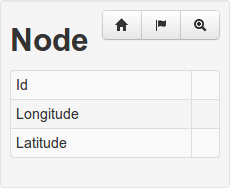
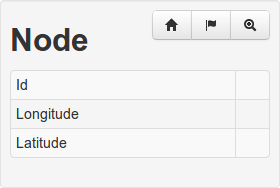
Erste Version des Benutzer-Handbuches.

diff --git a/doc/src/AntScout.tex b/doc/src/AntScout.tex
@@ -1,10 +1,14 @@
-\documentclass[a4paper,10pt]{scrreprt}
+\documentclass[
+  a4paper,
+  10pt
+]{scrreprt}
 
 \usepackage[ngerman]{babel}
 \usepackage{graphicx}
 \usepackage[utf8]{inputenc}
 \usepackage{listings}
 \usepackage{scrhack}
+\usepackage[shadow]{todonotes}
 \usepackage{hyperref}
 \usepackage[
   acronym,
@@ -24,6 +28,8 @@
   numberstyle = \tiny,
   showstringspaces = false
 }
+
+\bibliographystyle{alphadin}
 
 \makeglossaries
 
@@ -50,7 +56,7 @@ Konsolen-Kommandos, URLs oder Quellcode-Ausschnitte im Fließtext werden in eine
 \label{chap:allgemeine-problemstellung}
 
 Im Rahmen des Master-Projektes und der -Thesis soll eine Anwendung erstellt werden, in der der Ameisen-Algorithmus \textit{AntNet} auf realen Strassen-Karten für das dynamische Routing implementiert wird.
-Die Daten werden von \textit{OpenStreetMap} abgerufen und in einen Graphen umgewandelt, auf dem \textit{AntNet} operieren kann.
+Die Daten werden von \gls{osm} abgerufen und in einen Graphen umgewandelt, auf dem \textit{AntNet} operieren kann.
 Die Erstellung der Anwendung ist in zwei Schritte unterteilt:
 
 \begin{enumerate}
@@ -60,11 +66,13 @@ Die Erstellung der Anwendung ist in zwei Schritte unterteilt:
 
 Der erste Schritt ist das Ziel des Master-Projektes und der zweite das Ziel der Master-Thesis.
 
-\chapter{Benutzerhandbuch}
-\label{chap:benutzerhandbuch}
+\chapter{Benutzer-Handbuch}
+\label{chap:benutzer-handbuch}
 
-\section{Ablaufbedingungen}
-\label{sec:ablaufbedingungen}
+Im Benutzer-Handbuch wird die bereits fertige Anwendung beschrieben.
+
+% \section{Ablaufbedingungen}
+% \label{sec:ablaufbedingungen}
 
 \section{Installation}
 \label{sec:installation}
@@ -73,7 +81,7 @@ Der erste Schritt ist das Ziel des Master-Projektes und der zweite das Ziel der 
 Das Archiv muss lediglich auf die lokale Festplatte extrahiert werden.
 Dabei wird der Ordner ``AntScout'' erstellt, der alles beinhaltet, was für den Start der Anwendung nötig ist.
 
-\section{Programmstart}
+\section{Programm-Start}
 \label{sec:programmstart}
 
 \subsection{Voraussetzungen}
@@ -85,8 +93,8 @@ Dabei wird der Ordner ``AntScout'' erstellt, der alles beinhaltet, was für den 
   \item Der lokale Port \texttt{8080} darf nicht durch eine bereits laufende Anwendung blockiert sein.
 \end{itemize}
 
-\subsection{Start}
-\label{sec:programmstart-start}
+\subsection{Programm-Start}
+\label{sec:programm-start}
 
 \begin{enumerate}
   \item Konsole (auch Eingabeaufforderung oder Kommandozeile genannt) öffnen
@@ -100,15 +108,15 @@ Dabei wird der Ordner ``AntScout'' erstellt, der alles beinhaltet, was für den 
 \label{sec:programmstart-hinweise}
 
 \begin{itemize}
-  \item Nach dem Start von \texttt{sbt} werden alle benötigten Bibliotheken heruntergeladen.
+  \item Nach dem Start von \gls{sbt} werden alle benötigten Bibliotheken heruntergeladen.
     Je nach Internet-Verbindung kann dieser Vorgang mehrere Minuten dauern.
   \item Nach der Eingabe von \texttt{container:start} werden die benötigten Karten heruntergeladen und vorverarbeitet.
     Dieser Vorgang kann auch je nach Internet-Verbindung und Computer-Leistung mehrere Minuten dauern.
   \item Es sollte nach Möglichkeit ein möglichst moderner Browser, der HTML5 unterstützt, verwendet werden.
 \end{itemize}
 
-\section{Programmende}
-\label{sec:programmende}
+\section{Programm-Ende}
+\label{sec:programm-ende}
 
 \begin{enumerate}
   \item \texttt{container:stop}
@@ -135,6 +143,12 @@ Ein Screenshot dieser Seite ist in der Abbildung \ref{fig:start-seite} zu sehen.
 
 Die Seite ist in drei Bereiche unterteilt:
 
+\begin{itemize}
+  \item Menü
+  \item Karte
+  \item Informationen
+\end{itemize}
+
 \subsubsection{Menü}
 \label{sec:menue}
 
@@ -154,34 +168,40 @@ Dieser wird dann optisch hervorgehoben.
 
 Der Informationen-Bereich auf der rechten Seite ist in drei weitere Bereiche unterteilt:
 
-\paragraph{Pfad}
-\label{sec:pfad}
+\begin{itemize}
+  \item Pfad-Informationen
+  \item Knoten-Informationen
+  \item Weg-Informationen
+\end{itemize}
+
+\paragraph{Pfad-Informationen}
+\label{sec:pfad-informationen}
 
 Wenn ein Pfad gefunden wurde, werden hier die Länge und die Passier-Zeit angezeigt (siehe Abbildung \ref{fig:pfad-informationen}).
 Mit dem Button rechts oben können weitere Informationen eingeblendet werden.
 
 \begin{figure}[htbp]
   \centering
-  \includegraphics[width=0.3\textwidth]{Bilder/Pfad-Informationen.png}
+  \includegraphics[width=0.4\textwidth]{Bilder/Pfad-Informationen.png}
   \caption{Pfad-Informationen}
   \label{fig:pfad-informationen}
 \end{figure}
 
-\paragraph{Knoten}
-\label{sec:knoten}
+\paragraph{Knoten-Informationen}
+\label{sec:knoten-informationen}
 
 Nach der Markierung eines Knotens werden in diesem Bereich die Knoten-Daten eingetragen.
 Es handelt sich um die Id und die geographischen Daten, die direkt aus \gls{osm} übernommen werden (siehe Abbildung \ref{fig:knoten-informationen}).
 
 \begin{figure}[htbp]
   \centering
-  \includegraphics[width=0.3\textwidth]{Bilder/Knoten-Informationen.png}
+  \includegraphics[width=0.4\textwidth]{Bilder/Knoten-Informationen.png}
   \caption{Knoten-Informationen}
   \label{fig:knoten-informationen}
 \end{figure}
 
 Die drei Buttons rechts oben im Knoten-Informationen-Bereich (siehe Abbildung \ref{fig:knoten-buttons}) führen verschiedene Aktionen aus.
-Mit dem linken kann die aktuell selektierte Kreuzung als Start und mit dem mittleren als Ziel gesetzt werden.
+Mit dem linken kann der aktuell selektierte Knoten als Start und mit dem mittleren als Ziel gesetzt werden.
 Ein als Start oder Ziel gesetzter Knoten wird mit einem entsprechenden Marker versehen (siehe Abbildungen \ref{fig:start-knoten} und \ref{fig:ziel-knoten}).
 Mit dem rechten Button können weitere Informationen über die aktuell selektierte Knoten-Konstellation eingeblendet werden.
 
@@ -206,14 +226,115 @@ Mit dem rechten Button können weitere Informationen über die aktuell selektier
   \label{fig:ziel-knoten}
 \end{figure}
 
-\paragraph{Weg}
-\label{sec:weg}
+\paragraph{Weg-Informationen}
+\label{sec:weg-informationen}
 
 Hier werden die Daten eines selektierten Weges angezeigt.
-Neben einer Weg-Id werden hier die Länge, die maximale Geschwindigkeit und die Knoten angezeigt, aus denen der Weg besteht.
+Neben einer Weg-Id werden hier die Länge, die aktuell maximale Geschwindigkeit des Weges, die Passier-Zeit und die Knoten angezeigt, aus denen der Weg besteht (siehe Abbildung \ref{fig:weg-informationen}).
+Die Knoten können durch einen Klick auf ``Nodes'' eingeblendet werden.
+
+Unter der maximalen Geschwindigkeit sind drei Buttons zu sehen (siehe Abbildung \ref{fig:weg-editier-buttons}).
+Mit diesen Buttons kann die maximale Geschwindigkeit editiert werden.
+Der linke Button schaltet in den Editier-Modus.
+Im Editier-Modus ist die maximale Geschwindigkeit editierbar und die beiden rechten Buttons sind aktiv.
+Anschließend kann die neue Geschwindigkeit eingegeben werden.
+Mit dem mittleren Button kann diese gespeichert werden.
+Mit dem rechten Button wird der Editier-Modus verlassen, ohne die Änderung zu übernehmen.
+
+\begin{figure}[htbp]
+  \centering
+  \includegraphics[width=0.3\textwidth]{Bilder/Weg-Informationen.png}
+  \caption{Weg-Informationen}
+  \label{fig:weg-informationen}
+\end{figure}
+
+\begin{figure}[htbp]
+  \centering
+  \includegraphics[width=0.15\textwidth]{Bilder/Weg-Editier-Buttons.png}
+  \caption{Weg-Editier-Buttons}
+  \label{fig:weg-editier-buttons}
+\end{figure}
 
 \subsubsection{Statistiken}
 \label{sec:statistiken}
+
+In der Statistiken-Ansicht kann der aktuelle Zustand des Systems abgelesen werden.
+Diese ist in drei Bereiche unterteilt (Abbildung \ref{fig:statistiken}):
+
+\begin{itemize}
+  \item Ameisen-Statistiken (Abbildung \ref{fig:ameisen-statistiken})
+  \item Knoten-Statistiken (Abbildung \ref{fig:knoten-statistiken})
+  \item Zeit-Punkt der letzten Aktualisierung (Abbildung \ref{fig:letztes-update})
+\end{itemize}
+
+\begin{figure}[htbp]
+  \centering
+  \includegraphics[width=\textwidth]{Bilder/Statistiken.png}
+  \caption{Statistiken}
+  \label{fig:statistiken}
+\end{figure}
+
+\subsubsection{Ameisen-Statistiken}
+\label{sec:ameisen-statistiken}
+
+In diesem Bereich ist oben eine Tabelle zu sehen.
+In dieser ist jeweils die Anzahl der erzeugten, der das Ziel erreichten, der in einer Sack-Gasse angekommenen und der das maximale Alter überschrittenen Ameisen aufgeführt.
+Es wird sowohl die Anzahl pro Sekunde als auch die Gesamt-Anzahl angezeigt.
+Unter der Tabelle ist das durchschnittliche Ameisen-Alter, die Leerlauf-Zeit der Ameisen und die Zeit, die zum Auswählen des nächsten Knotens benötigt wurde, angezeigt.
+
+\begin{figure}[htbp]
+  \centering
+  \includegraphics[width=0.7\textwidth]{Bilder/Ameisen-Statistiken.png}
+  \caption{Ameisen-Statistiken}
+  \label{fig:ameisen-statistiken}
+\end{figure}
+
+\subsubsection{Knoten-Statistiken}
+\label{sec:Knoten-statistiken}
+
+Hier sind folgende Angaben zu finden:
+
+\begin{itemize}
+  \item Durchschnittliche Dauer, die zum Erzeugen von Ameisen benötigt wird.
+  \item Durchschnittliche Anzahl der Ameisen, die ein Knoten pro Sekunde verarbeitet.
+  \item Durchschnittliche Dauer, die für die Verarbeitung einer Ameise nötig ist.
+  \item Durchschnittliche Dauer, die für die Aktualisierung der Knoten-Daten-Strukturen gebraucht wird.
+\end{itemize}
+
+\begin{figure}[htbp]
+  \centering
+  \includegraphics[width=0.7\textwidth]{Bilder/Knoten-Statistiken.png}
+  \caption{Knoten-Statistiken}
+  \label{fig:knoten-statistiken}
+\end{figure}
+
+\begin{figure}[htbp]
+  \centering
+  \includegraphics[width=\textwidth]{Bilder/Letztes-Update.png}
+  \caption{Letztes Update}
+  \label{fig:letztes-update}
+\end{figure}
+
+\subsection{Routing}
+\label{sec:routing}
+
+Wenn sowohl Start als auch Ziel wie in Abschnitt \ref{sec:knoten-informationen} beschrieben gesetzt wurden, sucht \textit{AntScout} eine Route vom Start zum Ziel und zeigt diese an (Abbildung \ref{fig:route}).
+Jetzt kann einer der Wege, der auf der Route liegt selektiert und dessen maximale Geschwindigkeit wie in Abschnitt \ref{sec:weg-informationen} beschrieben verändert werden.
+Eine starke Verringerung der Geschwindigkeit veranlasst das System nach einer schnelleren Route zu suchen und diese anzuzeigen (Abbildung \ref{fig:alternative-route}).
+
+\begin{figure}[htbp]
+  \centering
+  \includegraphics[width=\textwidth]{Bilder/Route.png}
+  \caption{Route}
+  \label{fig:route}
+\end{figure}
+
+\begin{figure}[htbp]
+  \centering
+  \includegraphics[width=\textwidth]{Bilder/Alternative-Route.png}
+  \caption{Alternative-Route}
+  \label{fig:alternative-route}
+\end{figure}
 
 \subsection{Konfiguration}
 \label{sec:konfiguration}
@@ -238,16 +359,39 @@ name = wert
 
 Jede Änderung der Konfiguration wird erst nach einem Neustart der Applikation wirksam.
 
-\subsubsection{Karte}
-\label{sec:konfiguration-karte}
-
-Der Parameter \texttt{map} steuert, welche Karte verwendet werden soll.
-Es sind mehrere Karten in verschiedenen Größen vordefiniert.
-Die Zeile, die die aktuell verwendete Karte enthält, ist die einzige, die nicht mit einem \#-Zeichen beginnt.
-Dieser Zeile muss ein \#-Zeichen vorangestellt werden, damit sie nicht mehr verwendet wird.
-Vor der Zeile, die die gewünschte Karte enthält, muss das \#-Zeichen entfernt werden.
-
-\begin{lstlisting}
+\begin{description}
+  \item[ant-net] In diesem Abschnitt können die Parameter angepasst werden, die die Arbeitsweise von \textit{AntNet} - des im Hintergrund arbeitenden Routing-Algorithmus - beeinflussen.
+    Diese Parameter werden in den nächsten Abschnitten nur grob beschrieben.
+    Detailliertere Ausführungen sind in der entsprechenden Literatur (\cite{DorigoStuetzle2004} oder \cite{Walther2006}) zu finden.
+    \begin{description}
+      \item[a] Parameter \texttt{a} für die Squash-Funktion.
+      \item[alpha] Relatives Gewicht der heuristischen Information, die in die Berechnung der Wahrscheinlichkeiten einfließt.
+      \item[ants-launch] Parameter, die zum Erzeugen der Ameisen benötigt werden.
+        \begin{description}
+          \item[group-distance] Die von einem Knoten aus erreichbaren Ziele werden in Gruppen unterteilt.
+            Dieser Parameter (Angabe in Metern) entscheidet, in welchen Abständen eine neue Gruppe erzeugt wird.
+          \item[initial-delay] Intervall in Millisekunden, in dem Ameisen mit Zielen aus der am weitesten entfernten Gruppe erzeugt werden.
+          \item[delay-increment] Mit abnehmender Entfernung wird pro Gruppe dieser Wert (Angabe in Millisekunden) zum \texttt{initial-delay} hinzu addiert.
+        \end{description}
+      \item[max-ant-age] Maximales Alter einer Ameise in Millisekunden.
+        Wenn die Ameise ihr Ziel nicht innerhalb dieser Zeit erreicht hat, wird sie aus dem System entfernt.
+      \item[best-way-pheromone] Mit diesem Wert wird der beste Weg in der Pheromon-Matrix initialisiert, der als nächstes auf dem Weg zum Ziel besucht werden sollte.
+      \item[c1] Gewichtungsfaktor, der den Einfluss des Verhältnisses der besten Fahrzeit zur aktuellen Fahrzeit bei der Berechnung der Verstärkung angibt.
+      \item[c2] Gewichtungsfaktor, der den Einfluss der Vertrauenswürdigkeit der aktuellen Fahrzeit bei der Berechnung der Verstärkung angibt.
+      \item[varsigma] Faktor, der die Anzahl der Messungen bestimmt, die zum Berechnen des Mittelwertes und der Varianz des lokalen statistischen Modells verwendet werden.
+      \item[w-max] Größe des gleitendes Beobachtungsfensters des lokalen statistischen Modells.
+        Sollte nach \cite{DorigoStuetzle2004} wie folgt berechnet werden: $w-max = 5 \frac{c}{varsigma}$ mit $c <= 1$.
+      \item[z] Parameter \texttt{z} für die Berechnung der Verstärkung.
+    \end{description}
+  \item[default-speeds] Standard-Geschwindigkeiten für verschiedene \gls{osm}-Weg-Klassen.
+    Diese Geschwindigkeiten werden den Wegen zugewiesen, wenn in der \gls{osm}-Weg-Definition keine maximale Geschwindigkeit definiert ist.
+  \item[epsilon] Schwellwert für den Vergleich von zwei Double-Werten.
+  \item[map] Dieser Parameter steuert, welche Karte verwendet werden soll.
+    Es sind mehrere Karten in verschiedenen Größen vordefiniert.
+    Die Zeile, die die aktuell verwendete Karte enthält, ist die einzige, die nicht mit einem \#-Zeichen beginnt.
+    Dieser Zeile muss ein \#-Zeichen vorangestellt werden, damit sie nicht mehr verwendet wird.
+    Vor der Zeile, die die gewünschte Karte enthält, muss das \#-Zeichen entfernt werden.
+    \begin{lstlisting}
 # Karte, die verwendet werden soll.
 # 104 Knoten, 99 Quellen und 100 Ziele
 # map = maps/Bahrenfeld-Gross-Flottbek-Othmarschen-Ottensen.osm
@@ -261,31 +405,43 @@ map = maps/Altona-50-Knoten.osm
 # map = maps/Altona-Wedel.osm
 # 57 Knoten, 57 Quellen und 56 Ziele
 # map = maps/Wedel.osm
-\end{lstlisting}
+    \end{lstlisting}
+  \item[max-path-length] Die Suche nach einem Pfad wird abgebrochen, wenn der Pfad diese Länge erreicht.
+  \item[process-statistics-delay] Intervall in Sekunden, in dem Statistiken erzeugt und verarbeitet werden.
+    Der Wert 0 schaltet die Statistiken aus.
+    Statistiken senken die Performance und sollten nur wenn nötig eingeschaltet werden!
+  \item[relevant-highways] \gls{osm}-Weg-Klassen, die für den AntNet-Algorithmus berücksichtigt werden sollen.
+  \item[trace-is-enabled] Flag, ob detaillierte (Log-)Ausgaben erzeugt werden sollen.
+    Senkt die Performance und sollte nur zur Fehlersuche eingeschaltet werden!
+\end{description}
 
-
-\section{Fehlermeldungen}
-\label{sec:fehlermeldungen}
+% \section{Fehlermeldungen}
+% \label{sec:fehlermeldungen}
 
 \section{Wiederanlaufbedingungen}
 \label{sec:wiederanlaufbedingungen}
 
-\chapter{Programmierhandbuch}
-\label{chap:Programmierhandbuch}
+Sollte die Anwendung einmal abstürzen oder/und nicht mehr reagieren, kann sie wie in Abschnitt \ref{sec:programm-ende} beschrieben beendet werden.
+In Abschnitt \ref{sec:programm-ende} ist geschildert, wie die Anwendung erneut gestartet werden kann.
 
-\section{Entwicklungskonfiguration}
-\label{sec:entwicklungskonfiguration}
+% \chapter{Programmierhandbuch}
+% \label{chap:Programmierhandbuch}
 
-\section{Problemanalyse und Realisation}
-\label{sec:problemanalyse-und-realisation}
+% \section{Entwicklungskonfiguration}
+% \label{sec:entwicklungskonfiguration}
 
-\section{Beschreibung grundlegender Datenstrukturen}
-\label{sec:beschreibung-grundlegender-datenstrukturen}
+% \section{Problemanalyse und Realisation}
+% \label{sec:problemanalyse-und-realisation}
 
-\section{Programmorganisation}
-\label{sec:programmorganisation}
+% \section{Beschreibung grundlegender Datenstrukturen}
+% \label{sec:beschreibung-grundlegender-datenstrukturen}
 
-\section{Programmtest}
-\label{sec:programmtest}
+% \section{Programmorganisation}
+% \label{sec:programmorganisation}
+
+% \section{Programmtest}
+% \label{sec:programmtest}
+
+\bibliography{Literatur}
 
 \end{document}

diff --git a/doc/src/Akronyme.tex b/doc/src/Akronyme.tex
@@ -1,2 +1,3 @@
-\newacronym{osm}{OSM}{\textit{OpenStreetMap}}
+\newacronym{osm}{OSM}{OpenStreetMap}
+\newacronym{sbt}{sbt}{Simple Build Tool}
 \newacronym{url}{URL}{Uniform Resource Locator}
